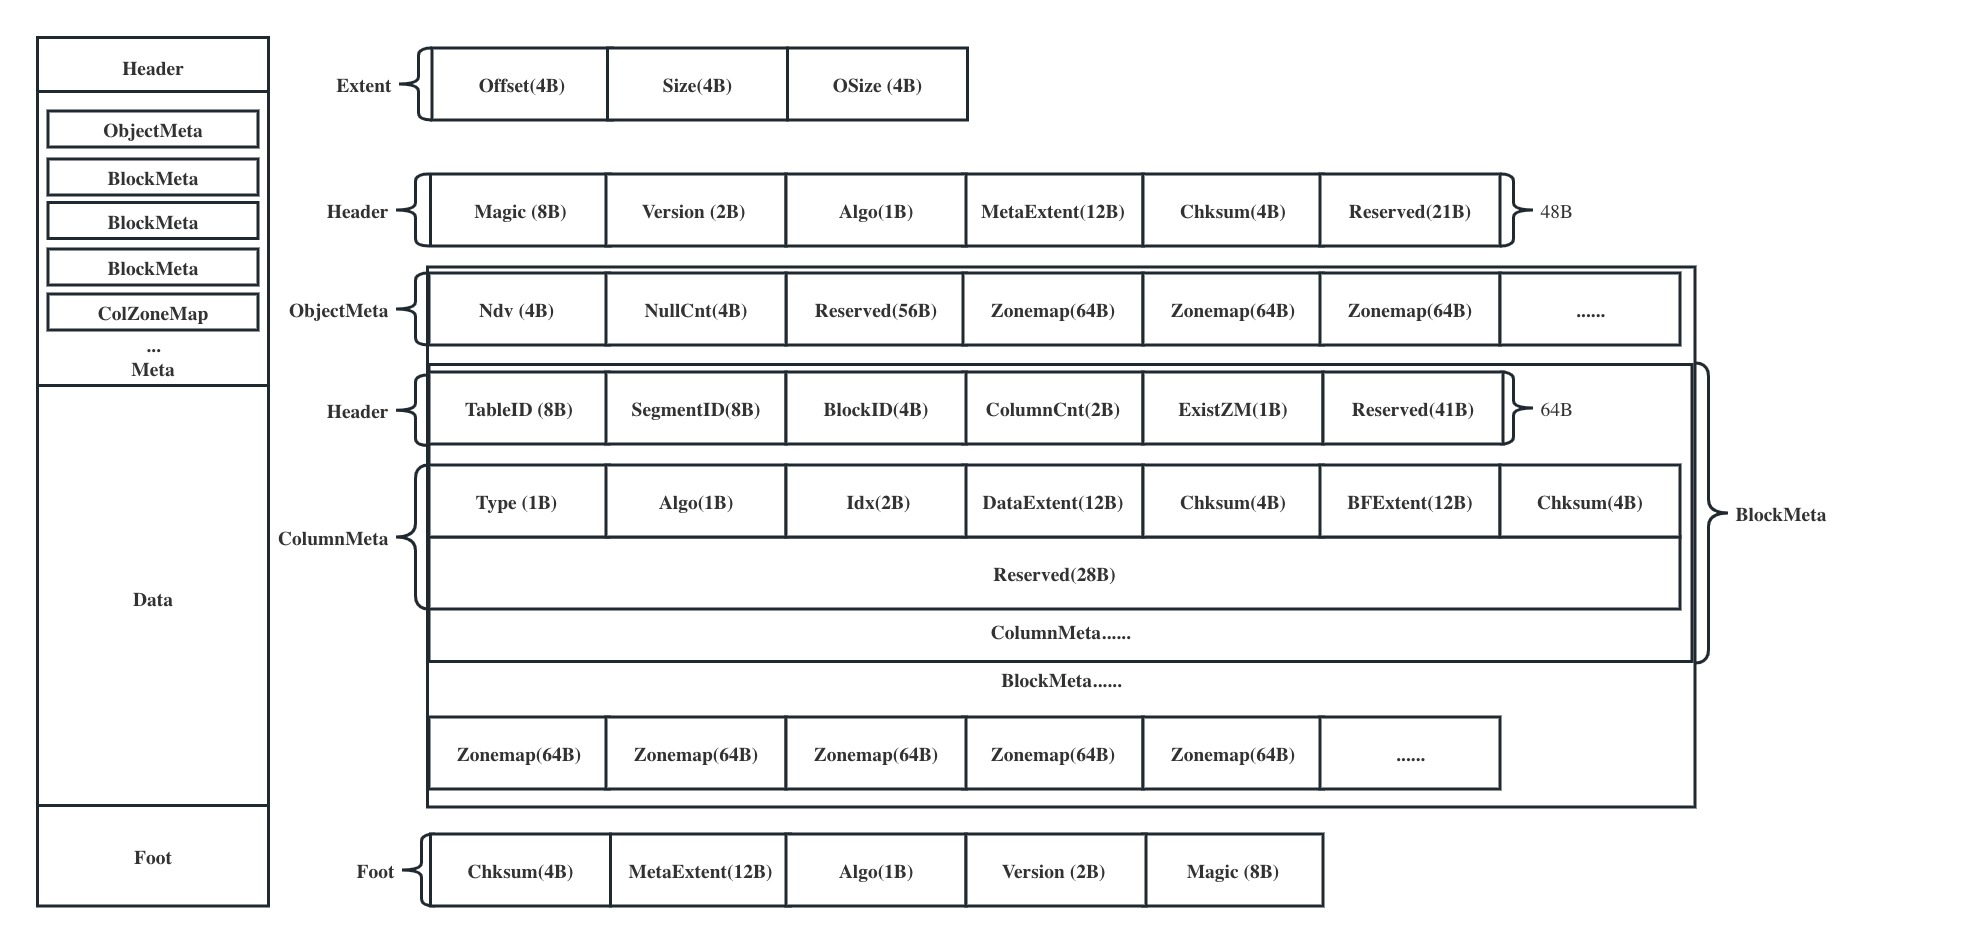
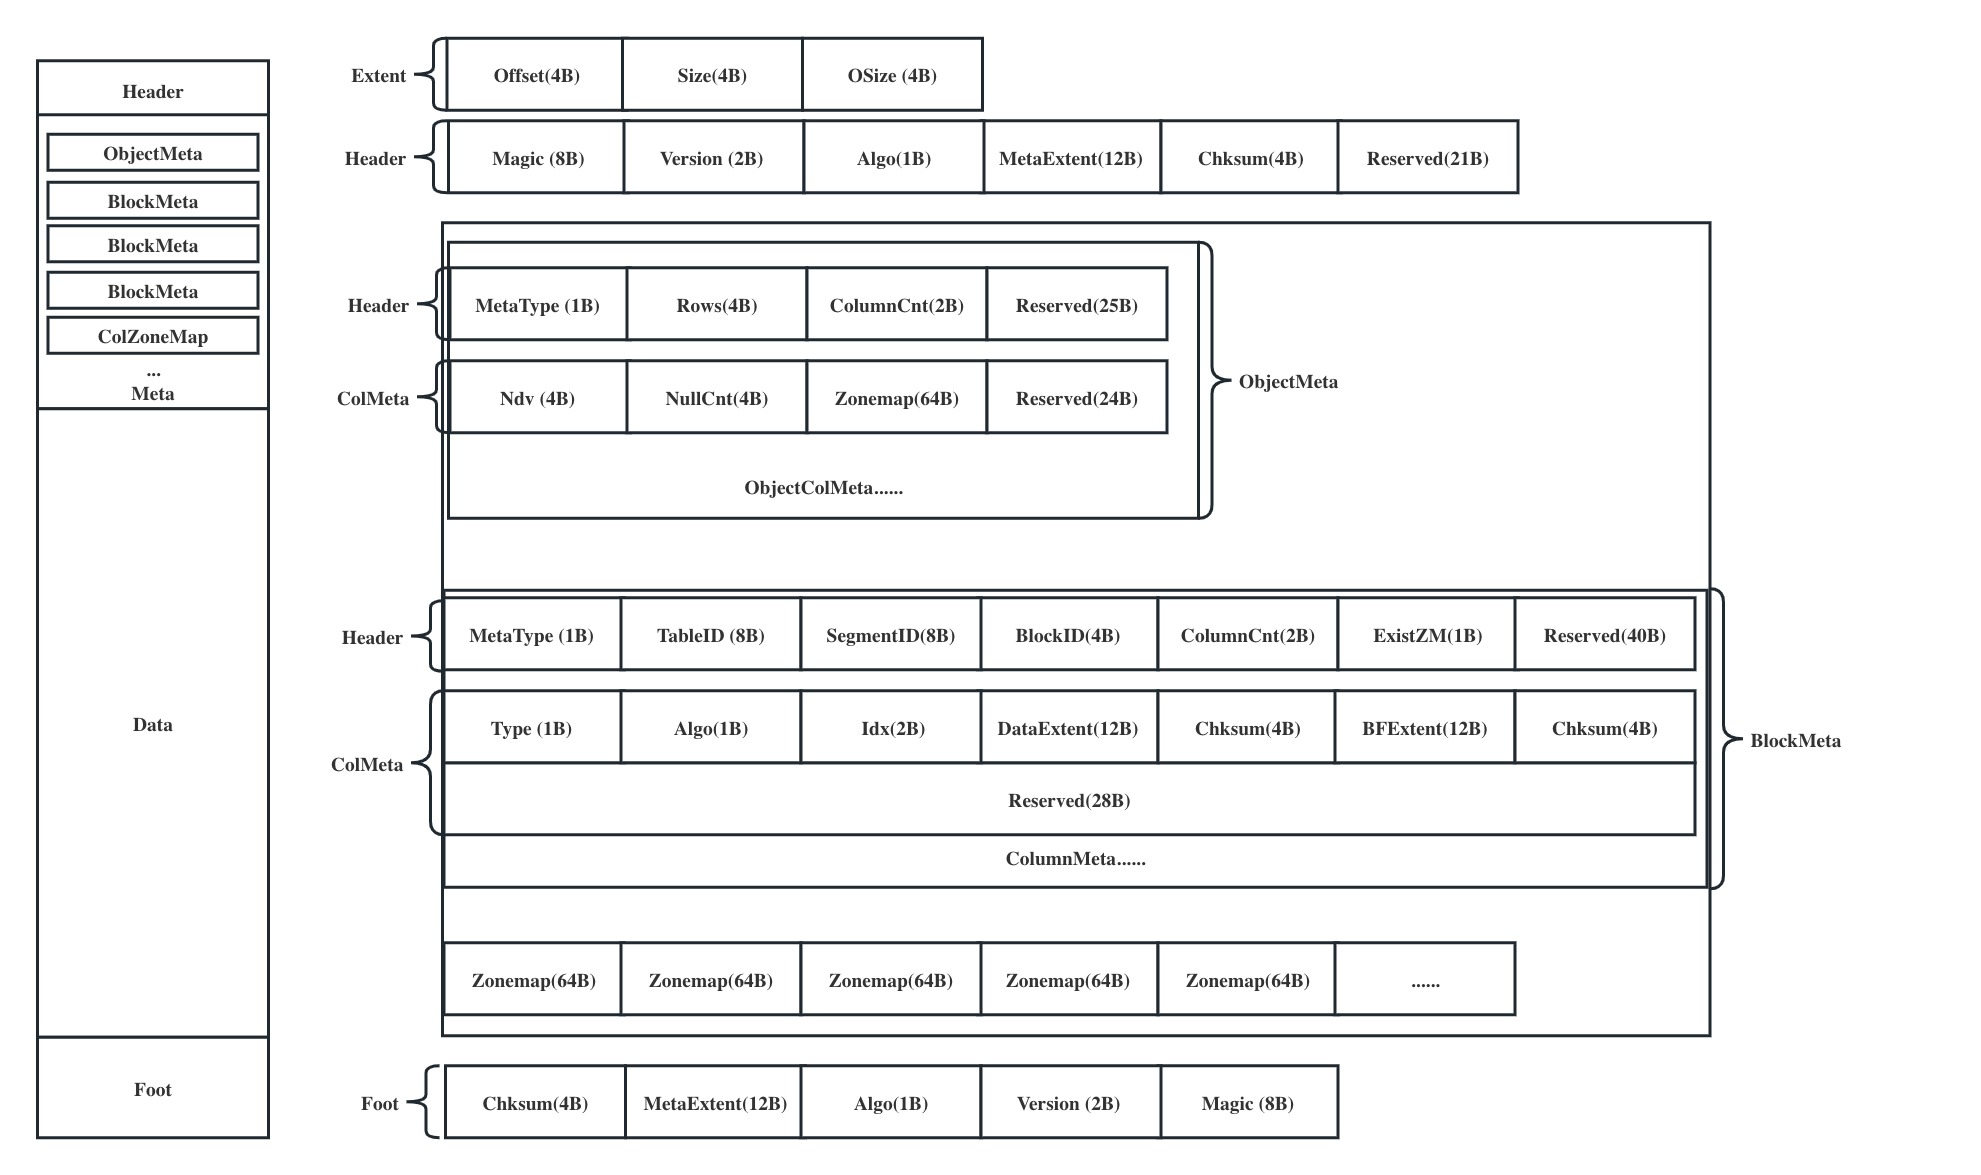
Update

Changed region(s): [[0.0, 0.0308, 0.9308, 0.9841], [0.0, 0.8303, 0.1551, 0.9841], [0.0621, 0.6151, 0.0931, 0.6458]]

diff --git a/layout/layout.md b/layout/layout.md
@@ -37,8 +37,6 @@ Reserved = 21 bytes reserved space
 +----------------------------------------------------------------------------------------------+
 |                                         <Object Meta>                                        |
 +----------------------------------------------------------------------------------------------+
-|                                      <Object Zonemap Area>                                   |
-+----------------------------------------------------------------------------------------------+
 |                                         <BlockMeta-1>                                        |
 +----------------------------------------------------------------------------------------------+
 |                                         <BlockMeta-2>                                        |
@@ -53,17 +51,19 @@ Reserved = 21 bytes reserved space
 
 ##### Object Meta
 ```
-+---------+------------+--------------+-----------------------+
-| Ndv(4B) | NullCnt(4B)| Reserved(24B)| <Object Zonemap Area> |
-+---------+------------+--------------+-----------------------+
-                                              |
-                                              |
-+-----------------+-----------------+-----------------+-----------------+-----------------+
-| Col1 Zonemap(64)| Col2 Zonemap(64)| Col3 Zonemap(64)| Col4 Zonemap(64)|      ......     |
-+-----------------+-----------------+-----------------+-----------------+-----------------+
-Ndv = Engine identity (0x01346616). TAE only
-NullCnt = Object file version
-Zonemap Area = The Zonemap of each column at the object level
++--------------+---------+--------------+-------------+-------+------+------+---+
+| MetaType(1B) | Rows(4B)| ColumnCnt(2B)| Resered(25B)| <Col1>|<Col2>|<Col3>|...|
++--------------+---------+--------------+-------------+-------+------+------+---+
+                                                           |
+                                                           |
+                                     +--------+------------+------------+-------------+
+                                     | Ndv(4B)| NullCnt(4B)| Zonemap(64)| Resered(24B)|
+                                     +--------+------------+------------+-------------+
+                                     
+MetaType = Metadata type
+Rows = How many rows are contained in object
+Ndv = How many distinct values in the column
+NullCnt = How many Null values in the column
 Zonemap = Contains tow 32B values: min and max
 
 ```
@@ -76,9 +76,9 @@ Zonemap = Contains tow 32B values: min and max
        |
 +----------------------------------------------------------------------------------------------------+
 |                                              Header                                                |
-+-------------+---------------+-------------+-----------------+------------------+-------------------+
-| TableID(8B) | SegmentID(8B) | BlockID(4B) |   ColumnCnt(2B) | ExistZonemap(1B) |  Reserved(41B)    |
-+-------------+---------------+-------------+-----------------+------------------+-------------------+
++-------------+-----------+-------------+-----------+--------------+-----------------+---------------+
+|MetaType(1B) |TableID(8B)|SegmentID(8B)|BlockID(4B)| ColumnCnt(2B)|ExistZonemap(1B) |Reserved(40B)  |
++-------------+-----------+-------------+-----------+--------------+-----------------+---------------+
 |                                             ColumnMeta                                             |
 +----------------------------------------------------------------------------------------------------+
 |                                             ColumnMeta                                             |
@@ -89,6 +89,7 @@ Zonemap = Contains tow 32B values: min and max
 +----------------------------------------------------------------------------------------------------+
 
 BlockMetaHeader Size = 64B
+MetaType = Metadata type
 TableID = Table ID for Block
 SegmentID = Segment ID
 BlockID = Block ID
